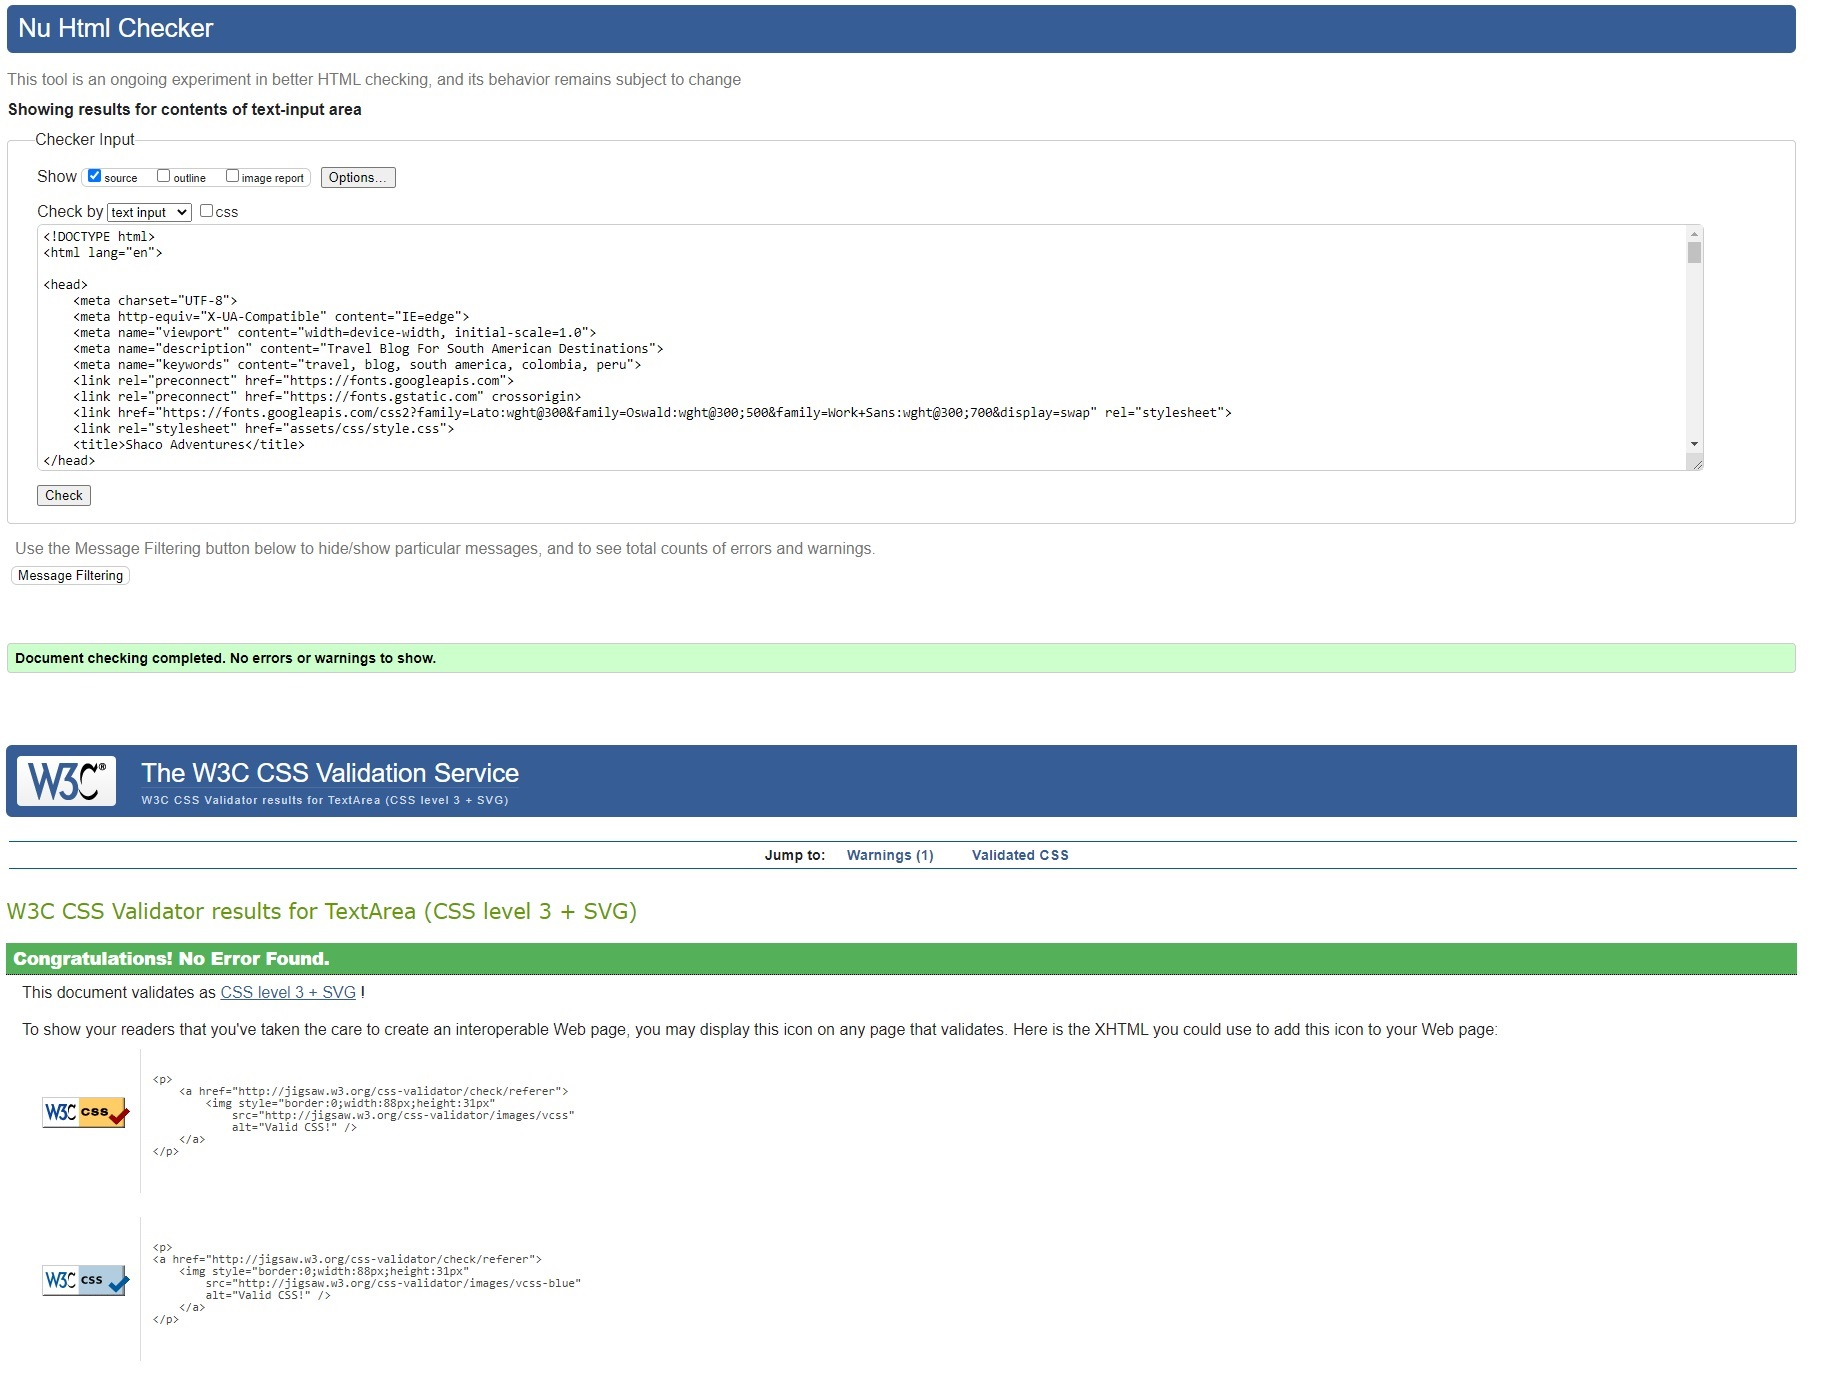
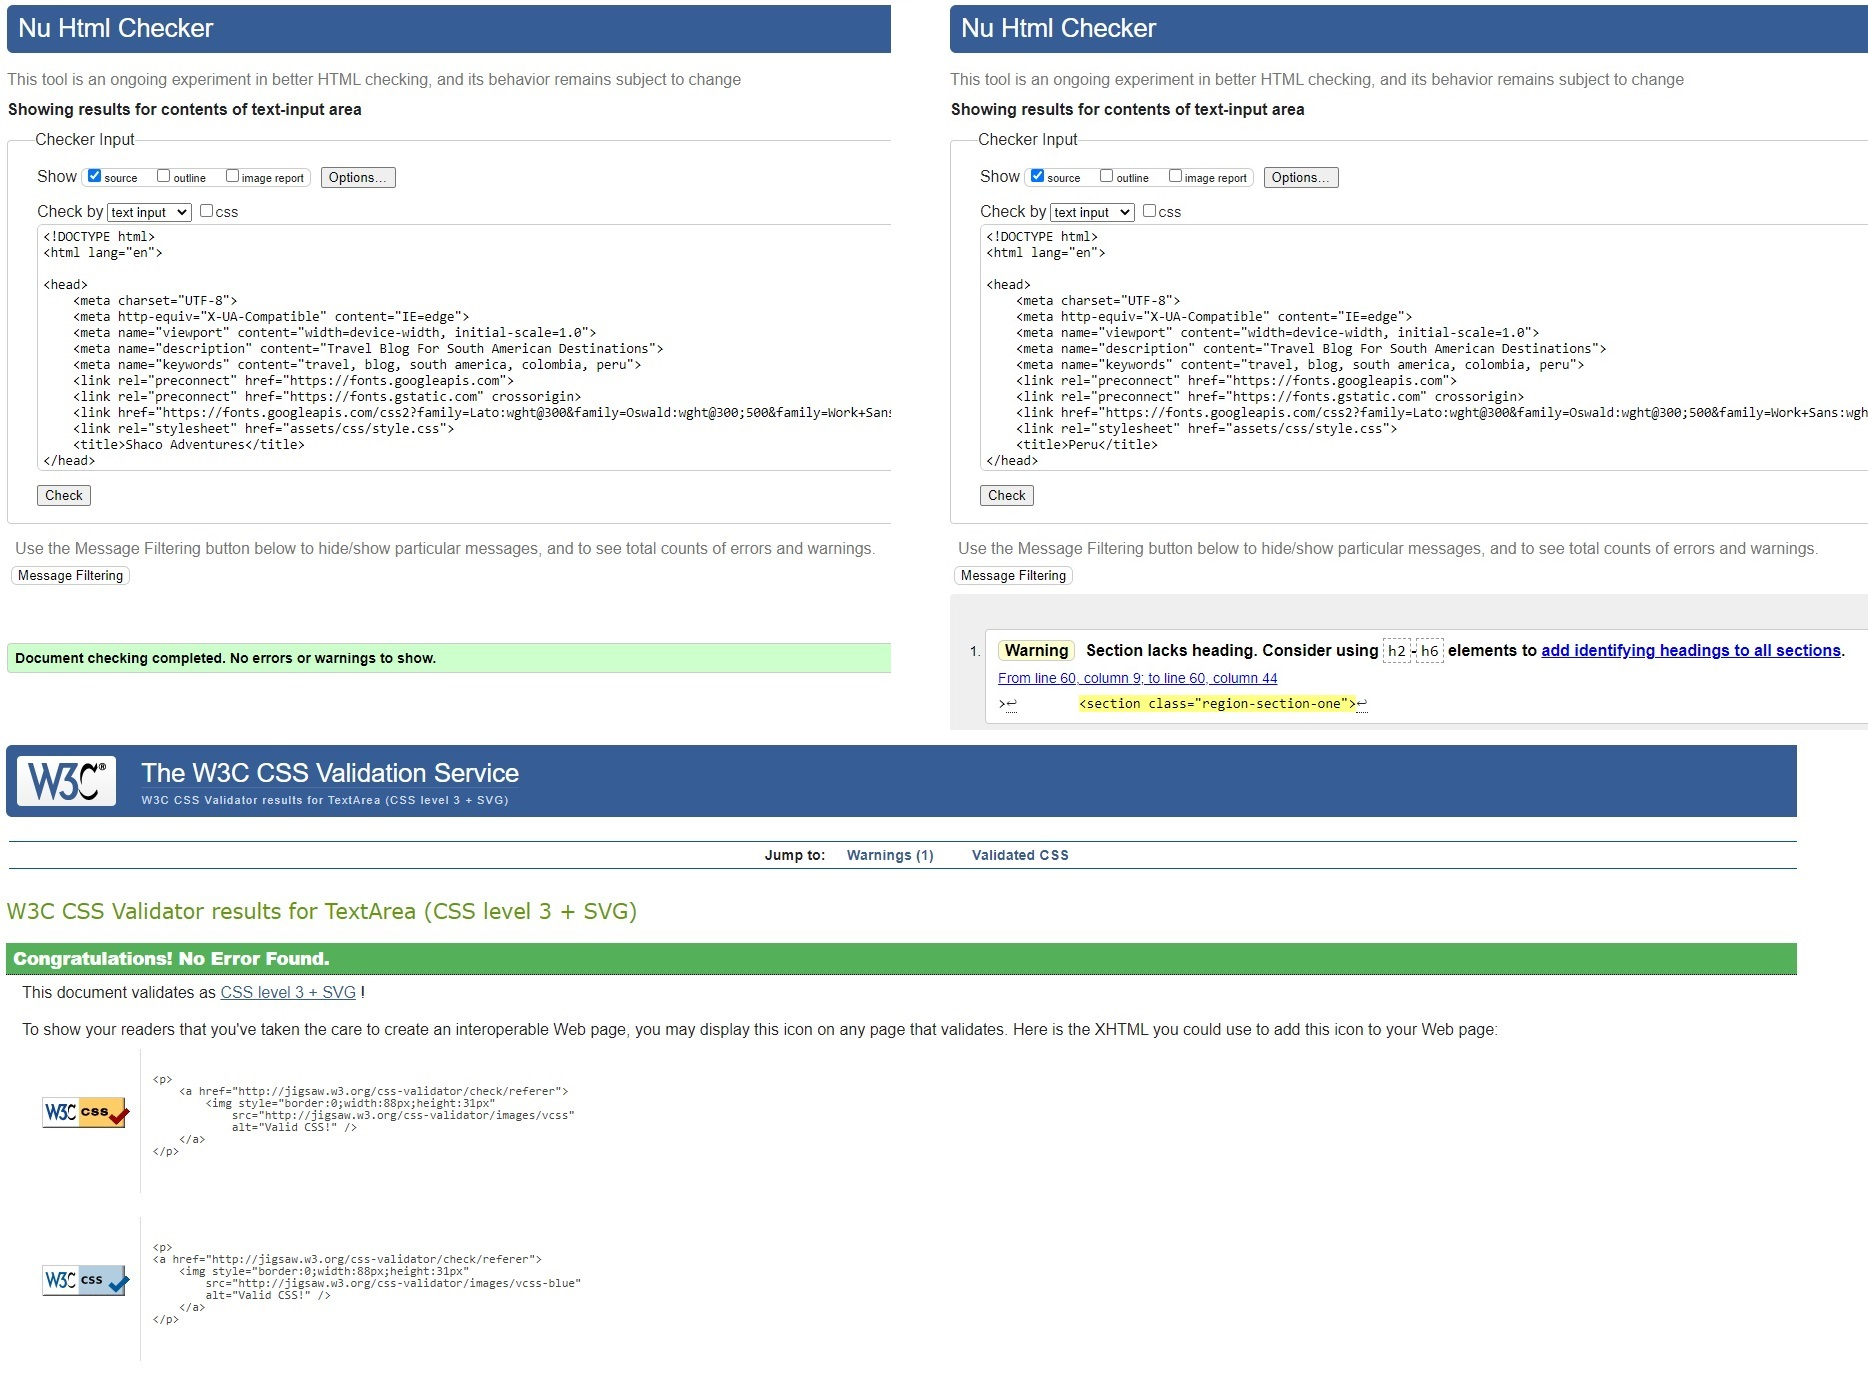
Add new image for testing: code validation in README file

diff --git a/README.md b/README.md
@@ -267,7 +267,7 @@ for all website users.
 ### Code Validation:
 
 * The code from this website has been validated using the [W3C HTML Validator](https://validator.w3.org/) to ensure that it complies with the standards set by the W3 Consortium.
-* All four pages (index.html, colombia.html, peru.html and contact.html) have been tested and all have come back 100% clear of errors.
+* All four pages (index.html, colombia.html, peru.html and contact.html) have been tested and all have come back 100% clear of errors. There was some warnings on the code regarding "section - headings" on the code validated from colombia.html and peru.html (see image on top-right below).
 * The CSS code has been validated using the [W3C CSS Validator](https://jigsaw.w3.org/css-validator/) to ensure that its complies with all relevant standards and it has come back 100% clear of all errors and warnings.
 * The Images below show the HTML validation results (top) and CSS validation results (bottom).
 
